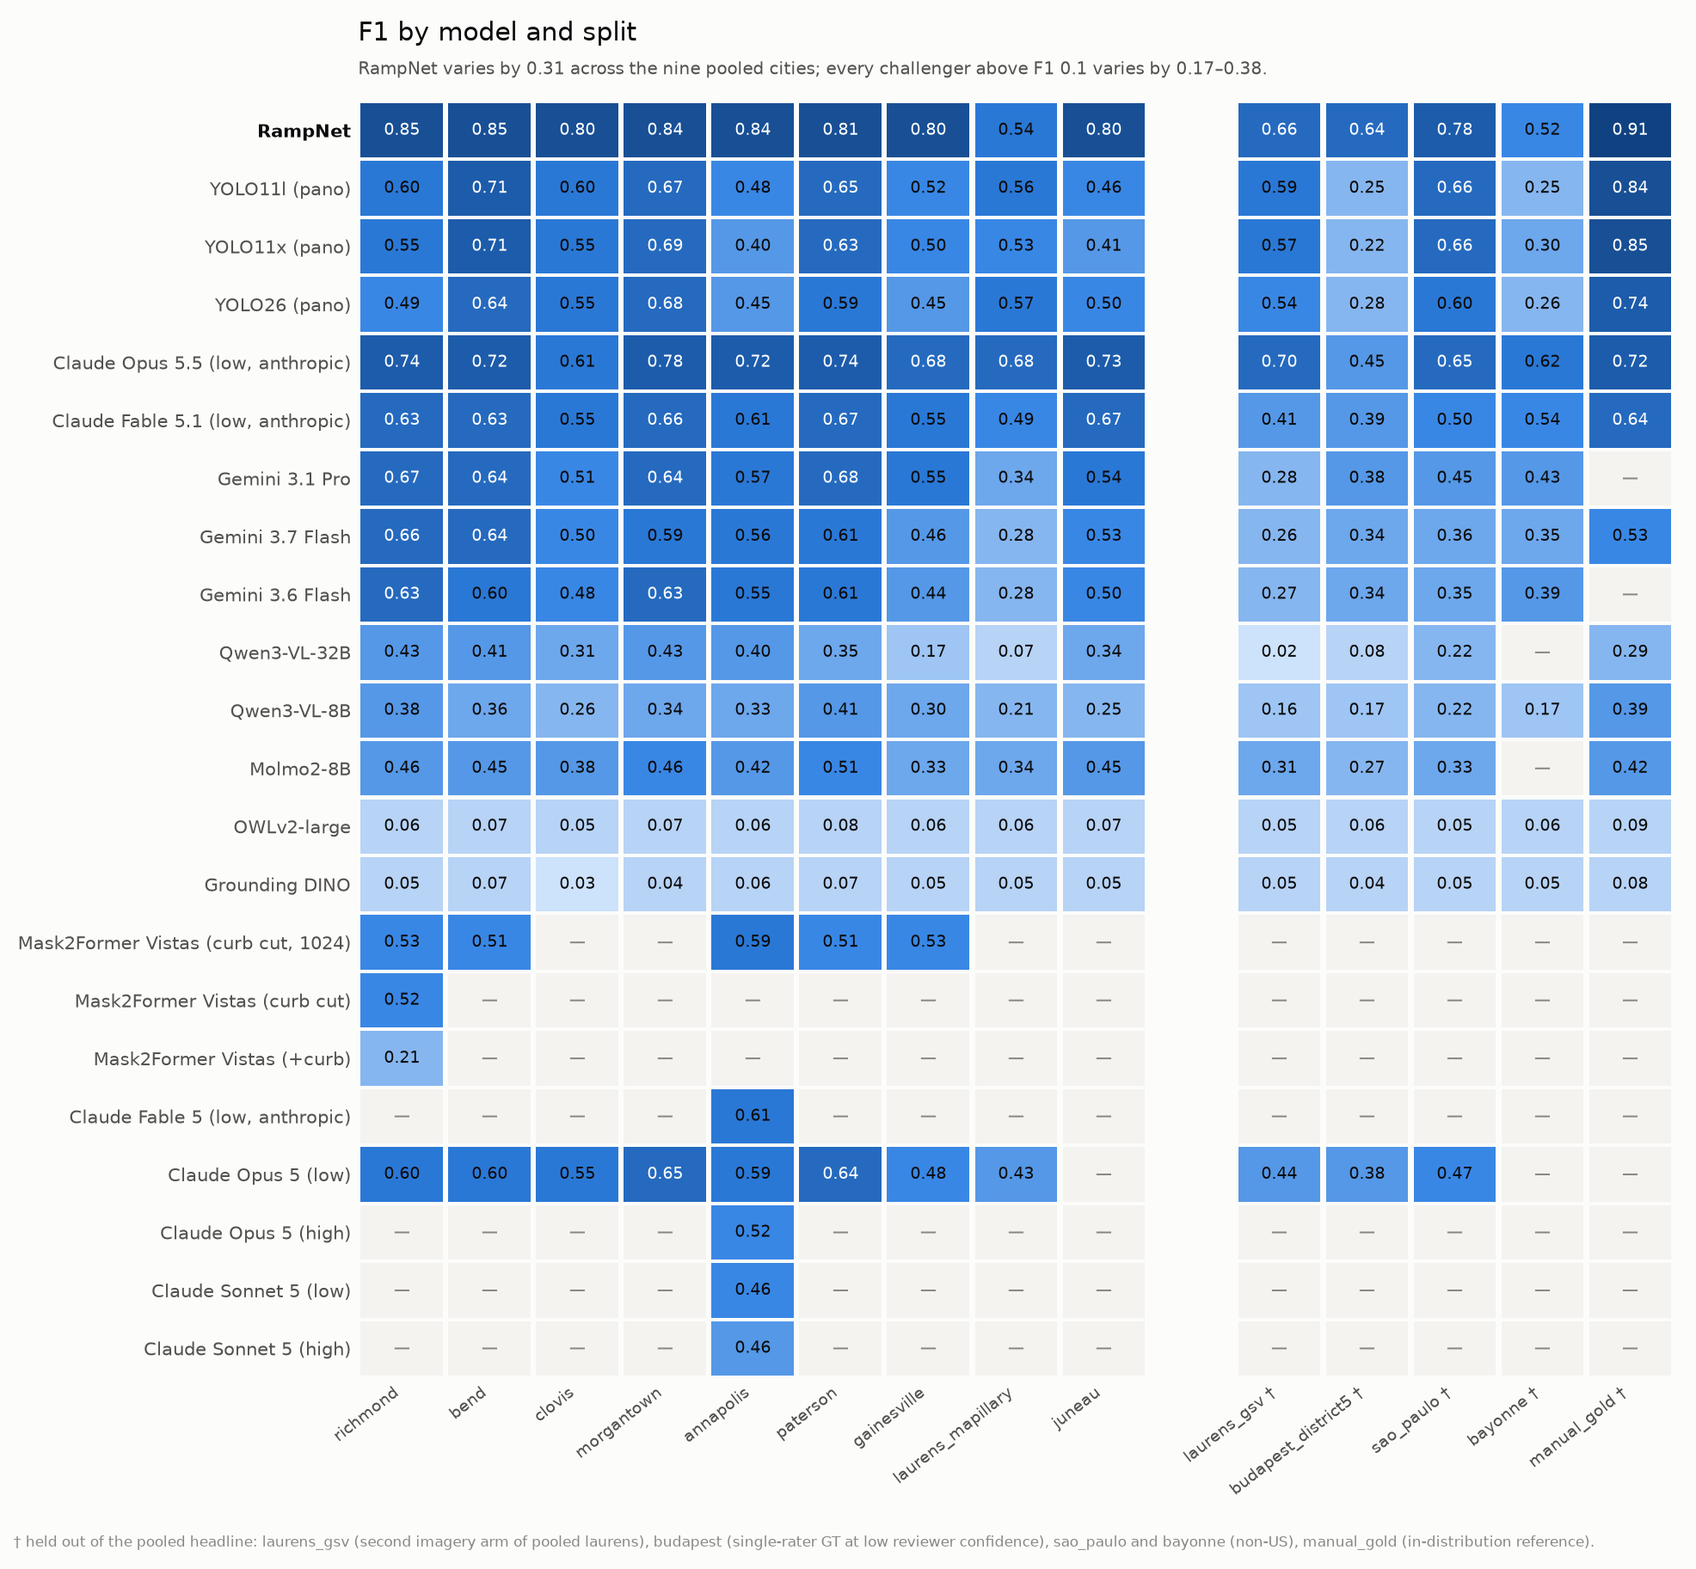
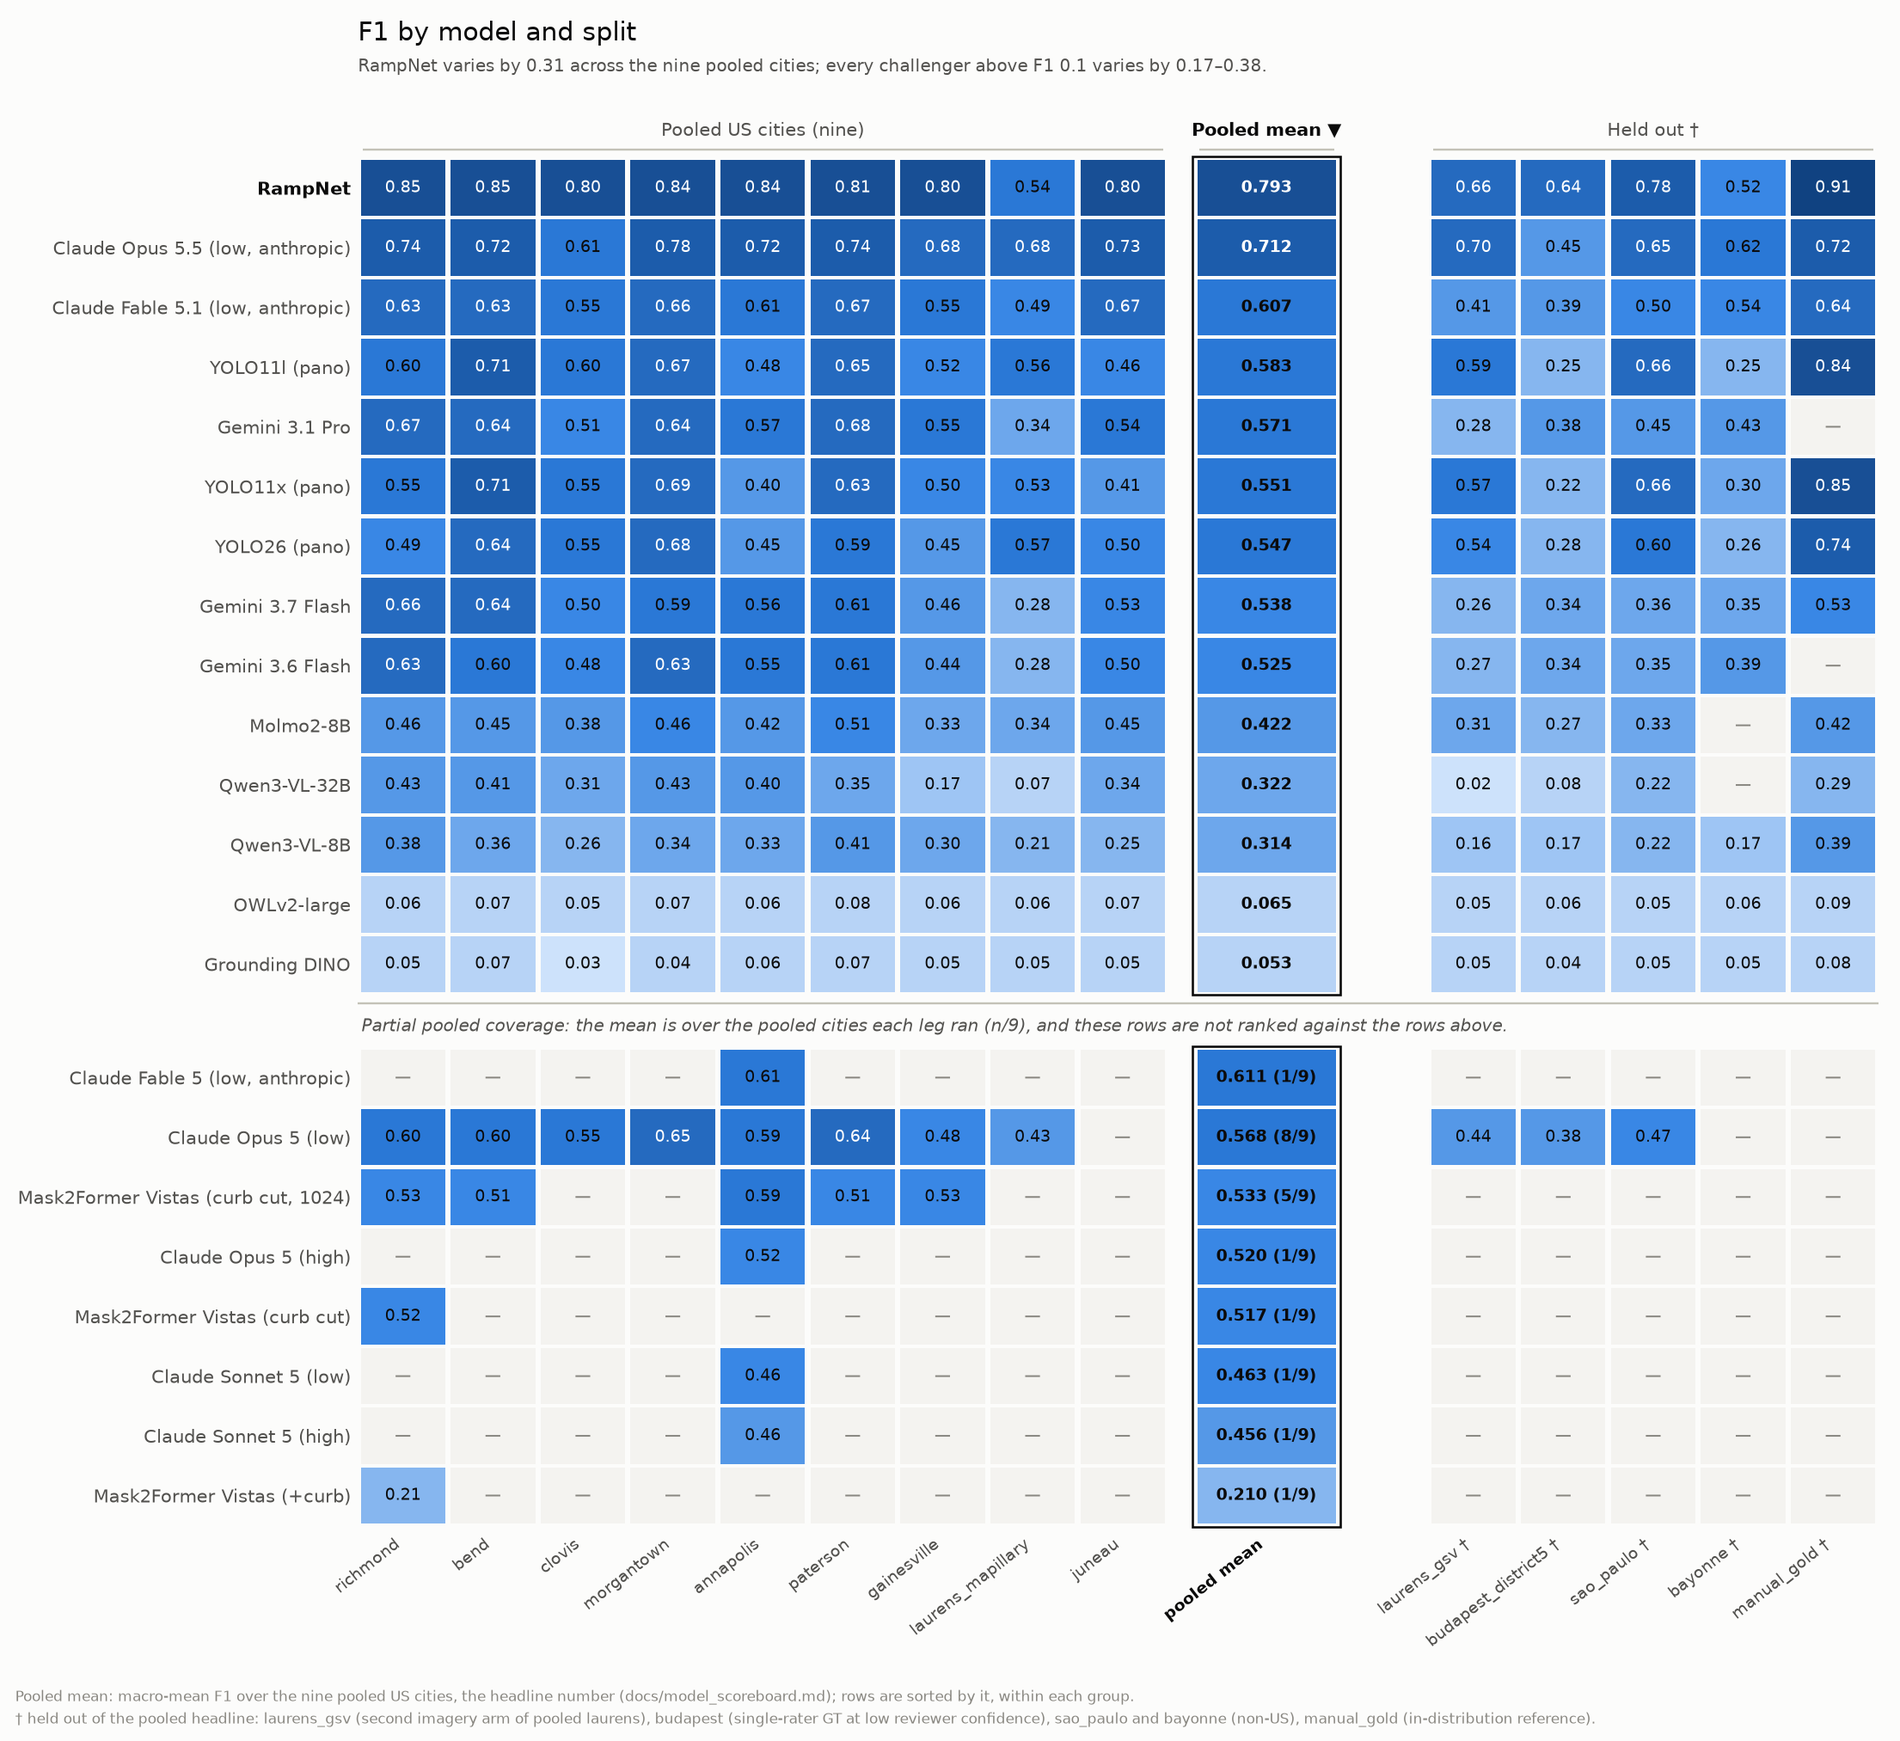
figures: pooled-mean column on the by-split heatmap, rows sorted by it
Jon (2026-10-20) asked for an aggregate column to sort the F1-by-split heatmap
by. The column is the board's own pooled F1 (the headline number), read from
the summary and asserted equal to the mean of the row's per-split cells.

- Full-coverage legs (9/9 pooled cities) sort by it, descending; RampNet
  comes first by sorting, not by being pinned.
- Partial-coverage legs form a separate group below a labelled rule, sorted
  by the mean over the pooled cities they ran, shown as e.g. "0.533 (5/9)".
- The column sits at the right of the pooled block, framed and bold, before
  the gutter; group labels "Pooled US cities (nine)" / "Pooled mean" /
  "Held out" sit above the columns so the gutter reads as a boundary.
- Same sequential ramp, values printed in every cell.

by_split_rows() is the ordering logic, tested against the committed
scoreboard.json. Only scoreboard_by_split.png changes; the other four
figures regenerate byte-identical.

diff --git a/scripts/analysis/scoreboard_figures.py b/scripts/analysis/scoreboard_figures.py
@@ -282,56 +282,163 @@ def fig_precision_recall(result, path, plt):
     return path
 
 
+# How far a pooled mean recomputed from the per-split cells may sit from the board's own.
+# scoreboard.json rounds every float to six places (scoreboard_render.JSON_PRECISION), so
+# a mean of rounded cells and the rounded mean can differ by up to ~1e-6; the in-memory
+# board agrees to float precision.
+POOLED_MEAN_TOL = 2e-6
+
+
+def by_split_rows(result):
+    """Row order for the by-split heatmap, as ``(full, partial)``.
+
+    Each list holds ``(summary, pooled_mean, n_pooled_run)`` tuples. ``pooled_mean`` is the
+    board's own pooled F1 (``summary["f1"]``, the number the headline quotes) -- read, not
+    recomputed -- and it is cross-checked here against the mean of the row's per-split
+    cells, so the aggregate column can never disagree with the cells printed beside it.
+
+    * ``full``: legs that ran every pooled city, sorted by pooled mean, descending.
+    * ``partial``: every other leg, in its own group, sorted by the mean over the pooled
+      cities it did run (a leg with none sorts last). Kept apart so a one-city leg is never
+      ranked against a nine-city mean.
+
+    Works on the in-memory board and on ``analysis_out/scoreboard.json`` alike. Ties keep
+    the board's order (complete, then class, then F1), because ``sort`` is stable.
+
+    Example::
+
+        full, partial = by_split_rows(json.load(open("analysis_out/scoreboard.json")))
+        [m["model"] for m, _, _ in full][:2]   # ['rampnet', 'claude-opus-5-5-effort-low-anthropic']
+    """
+    pooled = list(result["pooled_splits"])
+    per = result["per_split"]
+    full, partial = [], []
+    for m in result["models"]:
+        cells = per[m["model"]]
+        f1s = [cells[s]["f1"] for s in pooled if cells.get(s)]
+        n_run = len(f1s)
+        assert m["coverage"] == f"{n_run}/{len(pooled)}", (m["model"], m["coverage"], n_run)
+        assert m["complete"] == (n_run == len(pooled)), m["model"]
+        if f1s:
+            recomputed = sum(f1s) / n_run
+            assert m["f1"] is not None and abs(recomputed - m["f1"]) <= POOLED_MEAN_TOL, (
+                f"{m['model']}: pooled F1 {m['f1']} != mean of its cells {recomputed}")
+        else:
+            assert m["f1"] is None, m["model"]
+        (full if m["complete"] else partial).append((m, m["f1"], n_run))
+    full.sort(key=lambda r: -r[1])
+    partial.sort(key=lambda r: (r[1] is None, -(r[1] or 0.0)))
+    return full, partial
+
+
 def fig_by_split(result, path, plt):
     """F1 for every (model, split) cell — consistency across cities, at a glance.
 
     Sequential single-hue ramp (magnitude), values printed in every cell so the figure is
-    also its own table, and the three held-out splits pushed to the right of a gap so
-    they are never read as part of the pooled headline.
+    also its own table. Left to right: the pooled cities, the **pooled mean** (the headline
+    number, which the rows are sorted by), a gutter, then the held-out splits, so those are
+    never read as part of the pooled headline. Top to bottom: the legs that ran every
+    pooled city, a labelled rule, then the partial-coverage legs (``by_split_rows``).
     """
-    from scoreboard import US_SPLITS
-
-    splits = list(result["all_splits"])
-    held = [s for s in splits if s not in US_SPLITS]
-    ordered = list(US_SPLITS) + held
-    models = result["models"]
+    pooled = list(result["pooled_splits"])
+    held = [s for s in result["all_splits"] if s not in pooled]
     per = result["per_split"]
+    full, partial = by_split_rows(result)
+    n_pool = len(pooled)
 
-    # A one-column gutter between the pooled splits and the held-out ones.
-    gap_at = len(US_SPLITS)
-    ncols = len(ordered) + 1
+    # Columns, in data units: cities, a narrow gap, the wider aggregate column (it has to
+    # hold "0.533 (5/9)"), the gutter, then the held-out splits.
+    agg_gap, agg_w, gutter = 0.3, 1.6, 1.0
+    col_x = {s: float(i) for i, s in enumerate(pooled)}
+    agg_x = n_pool + agg_gap
+    held_x0 = agg_x + agg_w + gutter
+    col_x.update({s: held_x0 + i for i, s in enumerate(held)})
+    width = held_x0 + len(held)
+
+    # Rows: the full-coverage group, a separator band, the partial group. head is the band
+    # above the grid that carries the column-group labels.
+    sep, head = 0.9, 0.95
+    placed = [(r, float(i)) for i, r in enumerate(full)]
+    sep_y = float(len(full))
+    placed += [(r, sep_y + sep + i) for i, r in enumerate(partial)]
+    height = len(full) + (sep + len(partial) if partial else 0.0)
 
     # Height tracks the row count so adding a leg does not silently squash the cells.
-    fig, ax = plt.subplots(figsize=(11.6, 1.5 + 0.42 * len(models)))
+    fig_h = 1.9 + 0.42 * (height + head)
+    fig, ax = plt.subplots(figsize=(13.0, fig_h))
     fig.patch.set_facecolor(SURFACE)
     ax.set_facecolor(SURFACE)
 
-    vmax = 1.0
-    for row, m in enumerate(models):
-        for i, split in enumerate(ordered):
-            col = i if i < gap_at else i + 1
-            cell = per[m["model"]].get(split)
-            value = cell["f1"] if cell else None
-            color = _seq_color(value, vmax) if value is not None else "#f4f3f0"
-            ax.add_patch(plt.Rectangle((col + 0.03, row + 0.03), 0.94, 0.94,
-                                       facecolor=color, edgecolor="none", zorder=2))
-            text = "—" if value is None else f"{value:.2f}"
-            # White ink only where the fill is dark enough to carry it.
-            ink = "#ffffff" if (value is not None and value >= 0.62) else INK
-            ax.text(col + 0.5, row + 0.5, text, ha="center", va="center",
-                    fontsize=8.2, color=ink if value is not None else INK_MUTED,
-                    zorder=3)
+    def cell(x, y, w, value, text, bold=False):
+        color = _seq_color(value, 1.0) if value is not None else "#f4f3f0"
+        ax.add_patch(plt.Rectangle((x + 0.03, y + 0.03), w - 0.06, 0.94,
+                                   facecolor=color, edgecolor="none", zorder=2))
+        # White ink only where the fill is dark enough to carry it.
+        ink = "#ffffff" if (value is not None and value >= 0.62) else INK
+        ax.text(x + w / 2, y + 0.5, text, ha="center", va="center", fontsize=8.2,
+                color=ink if value is not None else INK_MUTED,
+                fontweight="bold" if bold else "normal", zorder=3)
 
-    ax.set_xlim(0, ncols)
-    ax.set_ylim(0, len(models))
-    ax.invert_yaxis()
-    ax.set_xticks([(i if i < gap_at else i + 1) + 0.5 for i in range(len(ordered))])
-    ax.set_xticklabels([s if s in US_SPLITS else f"{s} †" for s in ordered],
+    for (m, mean_f1, n_run), y in placed:
+        cells = per[m["model"]]
+        for split, x in col_x.items():
+            c = cells.get(split)
+            value = c["f1"] if c else None
+            cell(x, y, 1.0, value, "—" if value is None else f"{value:.2f}")
+        # Three places, like the headline it repeats; partial rows carry their coverage.
+        if mean_f1 is None:
+            text = "—"
+        elif m["complete"]:
+            text = f"{mean_f1:.3f}"
+        else:
+            text = f"{mean_f1:.3f} ({n_run}/{n_pool})"
+        cell(agg_x, y, agg_w, mean_f1, text, bold=True)
+
+    # One frame per row group around the aggregate column: it is a summary of the cells to
+    # its left, not another city, and the frame says so without spending a colour.
+    for y0, n in ((0.0, len(full)), (sep_y + sep, len(partial))):
+        if n:
+            ax.add_patch(plt.Rectangle((agg_x - 0.02, y0 - 0.02), agg_w + 0.04, n + 0.04,
+                                       facecolor="none", edgecolor=INK, lw=1.1, zorder=4))
+
+    # Column-group labels, with a hairline under each, so the gutter reads as a boundary
+    # between two groups rather than as a missing column.
+    def group(x0, x1, label, **kw):
+        ax.plot([x0 + 0.05, x1 - 0.05], [-0.14, -0.14], color=BASELINE, lw=1.0,
+                solid_capstyle="butt", clip_on=False, zorder=3)
+        ax.text((x0 + x1) / 2, -0.30, label, ha="center", va="bottom", fontsize=9,
+                clip_on=False, **kw)
+
+    group(0.0, float(n_pool), f"Pooled US cities ({_n_pooled(result)})",
+          color=INK_SECONDARY)
+    group(agg_x, agg_x + agg_w, "Pooled mean ▼", color=INK, fontweight="bold")
+    if held:
+        group(held_x0, width, "Held out †", color=INK_SECONDARY)
+
+    if partial:
+        ax.plot([-0.0, width], [sep_y + 0.16, sep_y + 0.16], color=BASELINE, lw=1.0,
+                zorder=3)
+        ax.text(0.04, sep_y + sep / 2 + 0.1,
+                "Partial pooled coverage: the mean is over the pooled cities each leg ran "
+                f"(n/{n_pool}), and these rows are not ranked against the rows above.",
+                ha="left", va="center", fontsize=8.4, color=INK_SECONDARY,
+                fontstyle="italic", zorder=3)
+
+    ax.set_xlim(0, width)
+    # A hair past the last row, or the bottom edge of the aggregate frame is clipped.
+    ax.set_ylim(height + 0.06, -head)
+    xt = [col_x[s] + 0.5 for s in pooled] + [agg_x + agg_w / 2] + \
+         [col_x[s] + 0.5 for s in held]
+    ax.set_xticks(xt)
+    ax.set_xticklabels(pooled + ["pooled mean"] + [f"{s} †" for s in held],
                        rotation=38, ha="right", fontsize=8.2, color=INK_SECONDARY)
-    ax.set_yticks([r + 0.5 for r in range(len(models))])
-    ax.set_yticklabels([m["display"] for m in models], fontsize=8.8,
+    agg_tick = ax.get_xticklabels()[n_pool]
+    agg_tick.set_color(INK)
+    agg_tick.set_fontweight("bold")
+    ax.set_yticks([y + 0.5 for _, y in placed])
+    ax.set_yticklabels([m["display"] for (m, _, _), _ in placed], fontsize=8.8,
                        color=INK_SECONDARY)
-    for tick, m in zip(ax.get_yticklabels(), models):
+    for tick, ((m, _, _), _) in zip(ax.get_yticklabels(), placed):
         if m["model"] == "rampnet":
             tick.set_color(INK)
             tick.set_fontweight("bold")
@@ -339,14 +446,12 @@ def fig_by_split(result, path, plt):
         ax.spines[side].set_visible(False)
     ax.tick_params(length=0)
 
-    # No gutter caption: the gap plus the daggered column headers already carry it, and a
-    # rotated label there runs into the title band.
-    #
     # The claim is bounded on purpose. RampNet does NOT have the flattest row outright --
     # OWLv2 (0.028) and Grounding DINO (0.039) are flatter, by being pinned near zero in
     # every city. Consistency only means something above the floor, so the comparison is
     # drawn against the models that clear it, and the threshold is stated rather than
     # implied.
+    models = result["models"]
     working = [m for m in models
                if m["complete"] and m["f1"] is not None and m["f1"] >= 0.1]
     spreads = [m["f1_max"] - m["f1_min"] for m in working if m["model"] != "rampnet"]
@@ -358,12 +463,20 @@ def fig_by_split(result, path, plt):
     else:
         subtitle = "F1 per (model, split). Held-out splits sit right of the gutter."
     _titles(ax, "F1 by model and split", subtitle)
-    fig.text(0.008, 0.012,
+
+    # Two footer lines, spaced in points so they stay apart however tall the figure is.
+    line = 11.0 / (fig_h * 72.0)
+    fig.text(0.008, 0.008 + line,
+             f"Pooled mean: macro-mean F1 over the {_n_pooled(result)} pooled US cities, the "
+             "headline number (docs/model_scoreboard.md); rows are sorted by it, within each "
+             "group.",
+             fontsize=7.4, color=INK_MUTED, ha="left", va="bottom")
+    fig.text(0.008, 0.008,
              "† held out of the pooled headline: laurens_gsv (second imagery arm of pooled "
              "laurens), budapest (single-rater GT at low reviewer confidence), sao_paulo "
              "and bayonne (non-US), manual_gold (in-distribution reference).",
              fontsize=7.4, color=INK_MUTED, ha="left", va="bottom")
-    fig.tight_layout(rect=(0, 0.03, 1, 1))
+    fig.tight_layout(rect=(0, 0.008 + 2.4 * line, 1, 1))
     fig.savefig(path, dpi=170, facecolor=fig.get_facecolor())
     plt.close(fig)
     return path

diff --git a/tests/test_scoreboard.py b/tests/test_scoreboard.py
@@ -1233,3 +1233,47 @@ def test_a_figure_helper_survives_a_board_without_rampnet(board, tmp_path):
     out = str(tmp_path / "fig.png")
     fig_headline(trimmed, out, plt)
     fig_by_split(trimmed, out, plt)
+
+
+def test_by_split_heatmap_rows_sort_by_pooled_mean_in_two_groups():
+    """The by-split figure's row order, read from the committed scoreboard.json.
+
+    Full-coverage legs sort by the headline pooled F1, descending; partial-coverage legs
+    form a separate group below, so a one-city mean never outranks a nine-city one. The
+    aggregate is the board's own pooled F1, not a second computation (by_split_rows
+    asserts it equals the mean of the row's cells).
+    """
+    from scoreboard_figures import by_split_rows
+
+    with open(sb.DEFAULT_JSON, encoding="utf-8") as fh:
+        committed = json.load(fh)
+    full, partial = by_split_rows(committed)
+    n_pool = len(committed["pooled_splits"])
+
+    # Every leg lands in exactly one group, in the right one.
+    names = [m["model"] for m, _, _ in full + partial]
+    assert sorted(names) == sorted(m["model"] for m in committed["models"])
+    assert all(m["complete"] and n == n_pool for m, _, n in full)
+    assert all(not m["complete"] and n < n_pool for m, _, n in partial)
+
+    # The aggregate IS the headline number, and each group is sorted by it.
+    for m, mean_f1, _ in full + partial:
+        assert mean_f1 == m["f1"]
+    for group in (full, partial):
+        means = [v for _, v, _ in group if v is not None]
+        assert means == sorted(means, reverse=True)
+
+    # RampNet leads by sorting, not by being pinned there.
+    assert full[0][0]["model"] == "rampnet"
+    assert round(full[0][1], 3) == 0.793
+
+
+def test_by_split_rows_rejects_an_aggregate_that_disagrees_with_its_cells():
+    """A pooled F1 that no longer matches the cells beside it must not be drawn."""
+    from scoreboard_figures import by_split_rows
+
+    with open(sb.DEFAULT_JSON, encoding="utf-8") as fh:
+        committed = json.load(fh)
+    committed["models"][0]["f1"] += 0.01
+    with pytest.raises(AssertionError, match="mean of its cells"):
+        by_split_rows(committed)

diff --git a/docs/model_scoreboard.md b/docs/model_scoreboard.md
@@ -275,6 +275,14 @@ shown because omitting them would be worse, not because they belong in the headl
 
 ![F1 by model and split](figures/scoreboard_by_split.png)
 
+The figure orders its rows differently from the table above, which groups by model class.
+Its **Pooled mean** column, framed and set right of the pooled cities, is the same pooled
+F1 the headline quotes (read from the board, and checked against the mean of the cells
+beside it), and the rows are sorted by it. Legs that have not run every pooled city sit in
+a separate group below a labelled rule, sorted by the mean over the cities they did run,
+and that mean carries its coverage, e.g. `0.533 (5/9)`. So a one-city leg is never ranked
+against a full-pool mean, even when its single city puts it numerically above one.
+
 Three things this matrix settles that no single-number ranking can:
 
 - **RampNet has the top score in eleven of the fourteen splits.** The exceptions are the two
